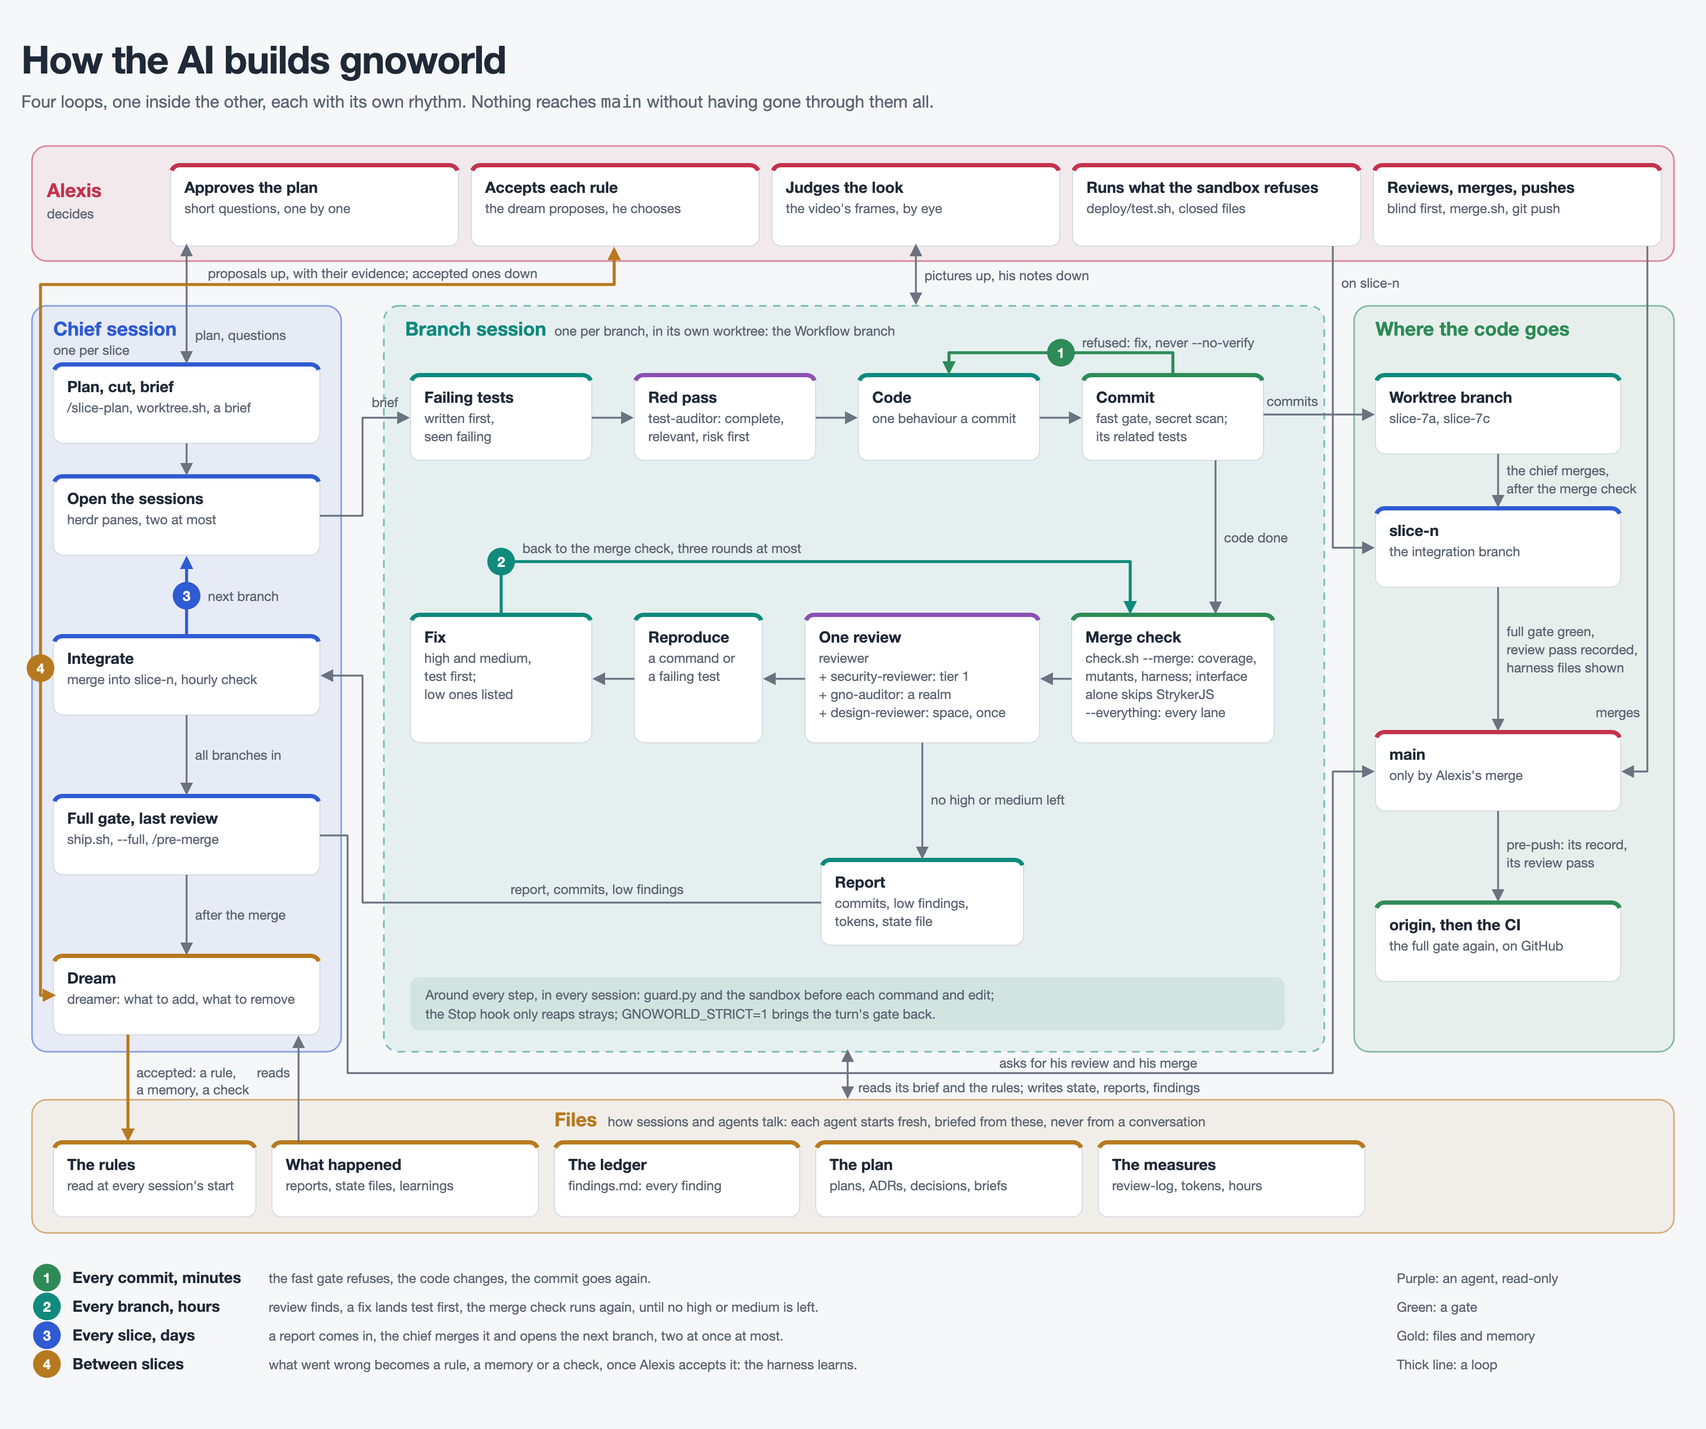
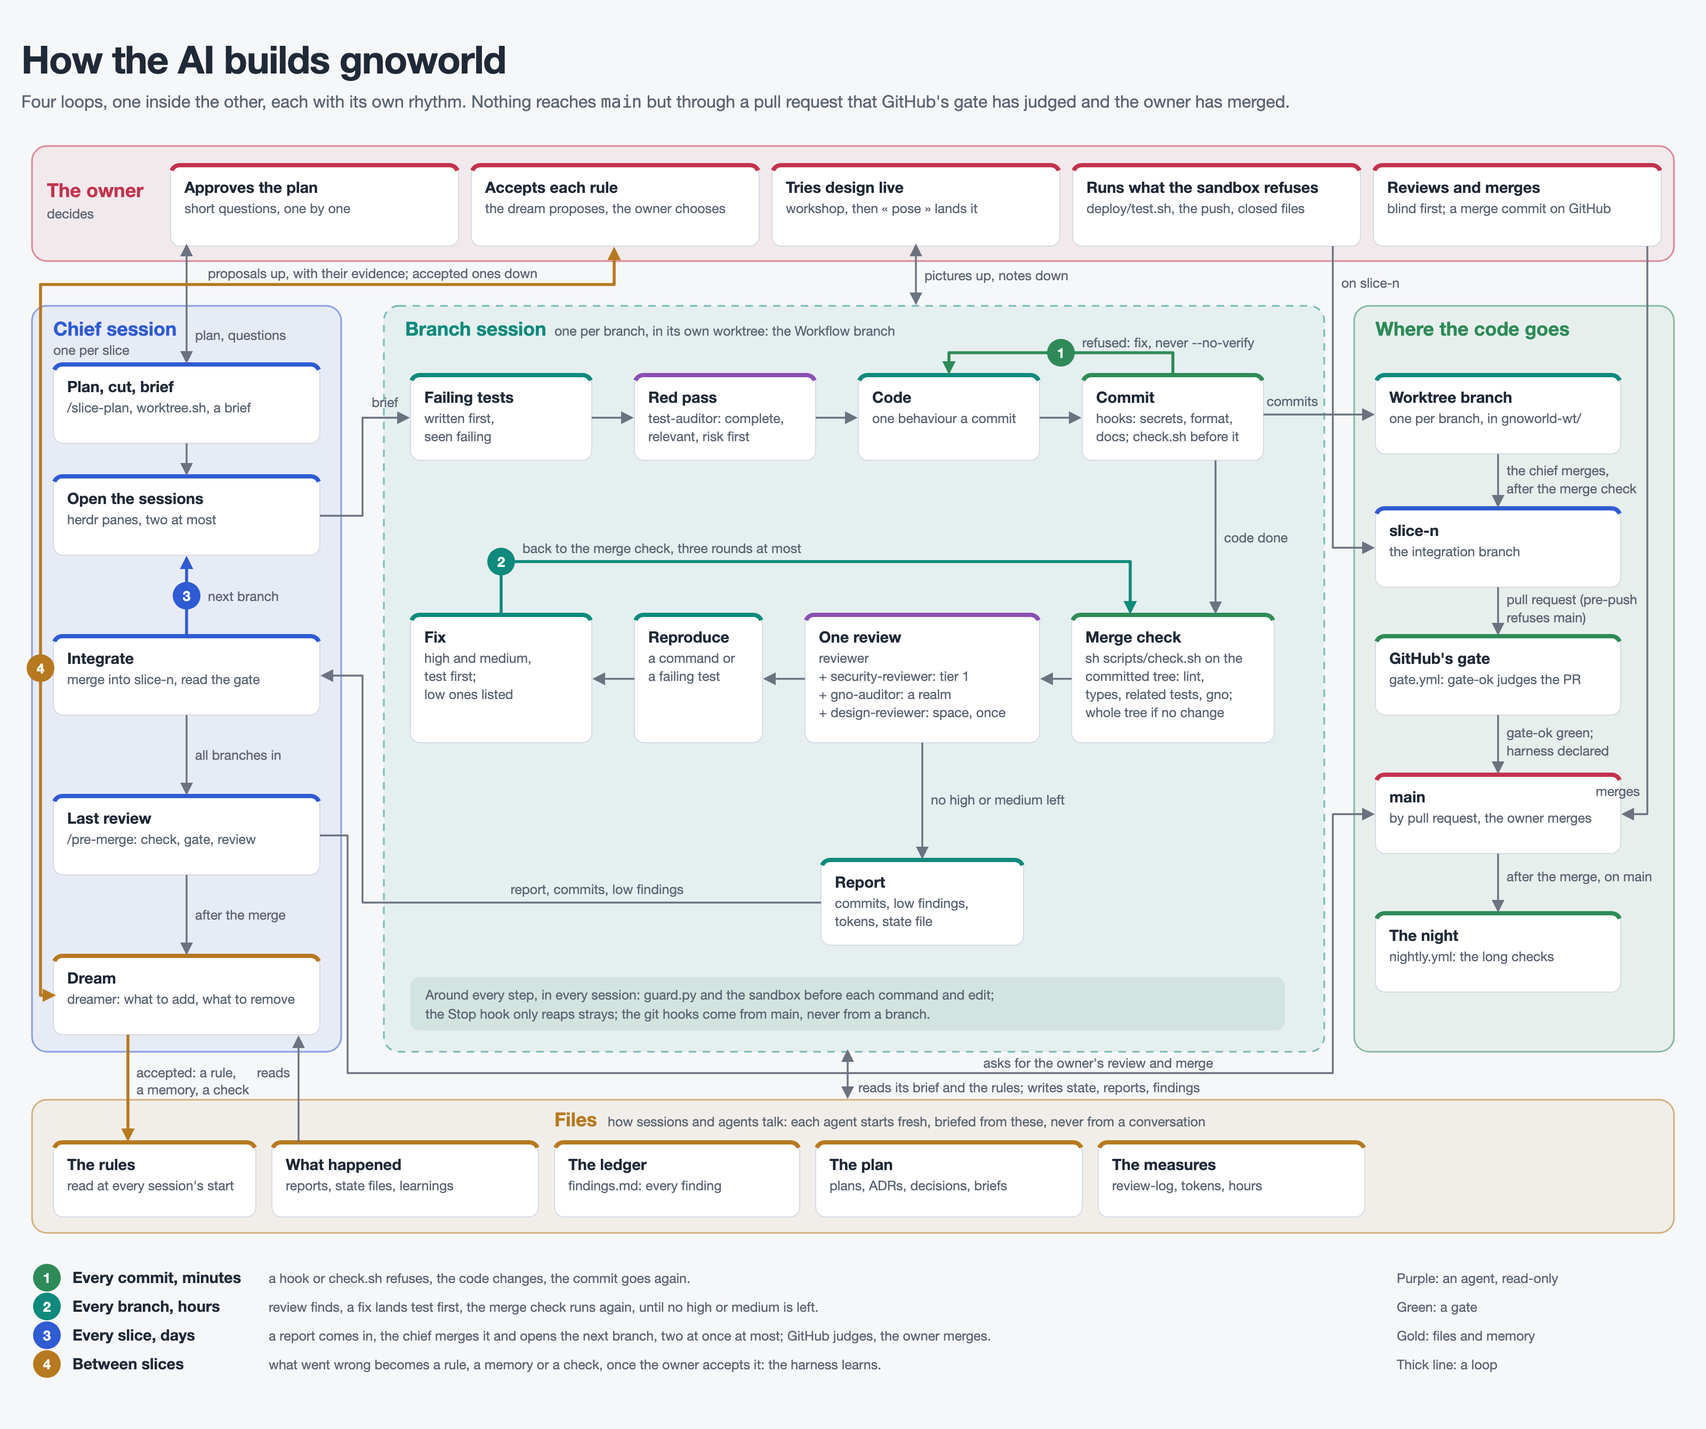
docs(harness): the picture of the harness as it is
harness.html describes the sessions, the gates and the agents as they are
now, and harness.png is rendered from it with HARNESS.md's command.

diff --git a/docs/harness.html b/docs/harness.html
@@ -11,10 +11,10 @@ svg { display: block; width: 100%; height: auto; }
 .b { font-size: 13px; font-weight: 700; }
 </style></head><body><main>
 <h1>How the AI builds gnoworld</h1>
-<p>Four loops, one inside the other, each with its own rhythm. Nothing reaches <code>main</code> without having gone through them all.</p>
-<figure style="margin:0"><svg viewBox="0 0 1560 1190" role="img" aria-label="Four nested loops: every commit through the fast gate, every branch through review and fixes, every slice through the chief's integration, and between slices through the dream back into the rules."><defs><marker id="line" viewBox="0 0 10 10" refX="8" refY="5" markerWidth="7" markerHeight="7" orient="auto-start-reverse"><path d="M0 0 L10 5 L0 10 z" fill="#6b7280"/></marker><marker id="green" viewBox="0 0 10 10" refX="8" refY="5" markerWidth="4.5" markerHeight="4.5" orient="auto-start-reverse"><path d="M0 0 L10 5 L0 10 z" fill="#2e8b57"/></marker><marker id="teal" viewBox="0 0 10 10" refX="8" refY="5" markerWidth="4.5" markerHeight="4.5" orient="auto-start-reverse"><path d="M0 0 L10 5 L0 10 z" fill="#0f8a7c"/></marker><marker id="blue" viewBox="0 0 10 10" refX="8" refY="5" markerWidth="4.5" markerHeight="4.5" orient="auto-start-reverse"><path d="M0 0 L10 5 L0 10 z" fill="#2f5bd3"/></marker><marker id="gold" viewBox="0 0 10 10" refX="8" refY="5" markerWidth="4.5" markerHeight="4.5" orient="auto-start-reverse"><path d="M0 0 L10 5 L0 10 z" fill="#b7791f"/></marker></defs>
+<p>Four loops, one inside the other, each with its own rhythm. Nothing reaches <code>main</code> but through a pull request that GitHub's gate has judged and the owner has merged.</p>
+<figure style="margin:0"><svg viewBox="0 0 1560 1190" role="img" aria-label="Four nested loops: every commit through the hooks and the commit gate, every branch through review and fixes, every slice through the chief's integration, and between slices through the dream back into the rules."><defs><marker id="line" viewBox="0 0 10 10" refX="8" refY="5" markerWidth="7" markerHeight="7" orient="auto-start-reverse"><path d="M0 0 L10 5 L0 10 z" fill="#6b7280"/></marker><marker id="green" viewBox="0 0 10 10" refX="8" refY="5" markerWidth="4.5" markerHeight="4.5" orient="auto-start-reverse"><path d="M0 0 L10 5 L0 10 z" fill="#2e8b57"/></marker><marker id="teal" viewBox="0 0 10 10" refX="8" refY="5" markerWidth="4.5" markerHeight="4.5" orient="auto-start-reverse"><path d="M0 0 L10 5 L0 10 z" fill="#0f8a7c"/></marker><marker id="blue" viewBox="0 0 10 10" refX="8" refY="5" markerWidth="4.5" markerHeight="4.5" orient="auto-start-reverse"><path d="M0 0 L10 5 L0 10 z" fill="#2f5bd3"/></marker><marker id="gold" viewBox="0 0 10 10" refX="8" refY="5" markerWidth="4.5" markerHeight="4.5" orient="auto-start-reverse"><path d="M0 0 L10 5 L0 10 z" fill="#b7791f"/></marker></defs>
 <rect x="10" y="10" width="1540" height="108" rx="14" fill="#c2334d" fill-opacity="0.07" stroke="#c2334d" stroke-opacity="0.55" stroke-width="1.5"/>
-<text x="24" y="58" class="h" text-anchor="start" fill="#c2334d">Alexis</text>
+<text x="24" y="58" class="h" text-anchor="start" fill="#c2334d">The owner</text>
 <text x="24" y="78" class="s" text-anchor="start" fill="#c2334d">decides</text>
 <rect x="140" y="28" width="270" height="76" rx="9" fill="#fff" stroke="#d6dbe3"/>
 <path d="M141 33 a8 8 0 0 1 8 -5 h252 a8 8 0 0 1 8 5" fill="none" stroke="#c2334d" stroke-width="4"/>
@@ -23,19 +23,19 @@ svg { display: block; width: 100%; height: auto; }
 <rect x="422" y="28" width="270" height="76" rx="9" fill="#fff" stroke="#d6dbe3"/>
 <path d="M423 33 a8 8 0 0 1 8 -5 h252 a8 8 0 0 1 8 5" fill="none" stroke="#c2334d" stroke-width="4"/>
 <text x="435" y="54" class="t" text-anchor="start">Accepts each rule</text>
-<text x="435" y="73" class="s" text-anchor="start">the dream proposes, he chooses</text>
+<text x="435" y="73" class="s" text-anchor="start">the dream proposes, the owner chooses</text>
 <rect x="704" y="28" width="270" height="76" rx="9" fill="#fff" stroke="#d6dbe3"/>
 <path d="M705 33 a8 8 0 0 1 8 -5 h252 a8 8 0 0 1 8 5" fill="none" stroke="#c2334d" stroke-width="4"/>
-<text x="717" y="54" class="t" text-anchor="start">Judges the look</text>
-<text x="717" y="73" class="s" text-anchor="start">the video's frames, by eye</text>
+<text x="717" y="54" class="t" text-anchor="start">Tries design live</text>
+<text x="717" y="73" class="s" text-anchor="start">workshop, then « pose » lands it</text>
 <rect x="986" y="28" width="270" height="76" rx="9" fill="#fff" stroke="#d6dbe3"/>
 <path d="M987 33 a8 8 0 0 1 8 -5 h252 a8 8 0 0 1 8 5" fill="none" stroke="#c2334d" stroke-width="4"/>
 <text x="999" y="54" class="t" text-anchor="start">Runs what the sandbox refuses</text>
-<text x="999" y="73" class="s" text-anchor="start">deploy/test.sh, closed files</text>
+<text x="999" y="73" class="s" text-anchor="start">deploy/test.sh, the push, closed files</text>
 <rect x="1268" y="28" width="270" height="76" rx="9" fill="#fff" stroke="#d6dbe3"/>
 <path d="M1269 33 a8 8 0 0 1 8 -5 h252 a8 8 0 0 1 8 5" fill="none" stroke="#c2334d" stroke-width="4"/>
-<text x="1281" y="54" class="t" text-anchor="start">Reviews, merges, pushes</text>
-<text x="1281" y="73" class="s" text-anchor="start">blind first, merge.sh, git push</text>
+<text x="1281" y="54" class="t" text-anchor="start">Reviews and merges</text>
+<text x="1281" y="73" class="s" text-anchor="start">blind first; a merge commit on GitHub</text>
 <rect x="10" y="160" width="290" height="700" rx="14" fill="#2f5bd3" fill-opacity="0.07" stroke="#2f5bd3" stroke-opacity="0.55" stroke-width="1.5"/>
 <text x="30" y="188" class="h" text-anchor="start" fill="#2f5bd3">Chief session</text>
 <text x="30" y="206" class="s" text-anchor="start" fill="#2f5bd3">one per slice</text>
@@ -50,11 +50,11 @@ svg { display: block; width: 100%; height: auto; }
 <rect x="30" y="470" width="250" height="74" rx="9" fill="#fff" stroke="#d6dbe3"/>
 <path d="M31 475 a8 8 0 0 1 8 -5 h232 a8 8 0 0 1 8 5" fill="none" stroke="#2f5bd3" stroke-width="4"/>
 <text x="43" y="496" class="t" text-anchor="start">Integrate</text>
-<text x="43" y="515" class="s" text-anchor="start">merge into slice-n, hourly check</text>
+<text x="43" y="515" class="s" text-anchor="start">merge into slice-n, read the gate</text>
 <rect x="30" y="620" width="250" height="74" rx="9" fill="#fff" stroke="#d6dbe3"/>
 <path d="M31 625 a8 8 0 0 1 8 -5 h232 a8 8 0 0 1 8 5" fill="none" stroke="#2f5bd3" stroke-width="4"/>
-<text x="43" y="646" class="t" text-anchor="start">Full gate, last review</text>
-<text x="43" y="665" class="s" text-anchor="start">ship.sh, --full, /pre-merge</text>
+<text x="43" y="646" class="t" text-anchor="start">Last review</text>
+<text x="43" y="665" class="s" text-anchor="start">/pre-merge: check, gate, review</text>
 <rect x="30" y="770" width="250" height="74" rx="9" fill="#fff" stroke="#d6dbe3"/>
 <path d="M31 775 a8 8 0 0 1 8 -5 h232 a8 8 0 0 1 8 5" fill="none" stroke="#b7791f" stroke-width="4"/>
 <text x="43" y="796" class="t" text-anchor="start">Dream</text>
@@ -79,15 +79,15 @@ svg { display: block; width: 100%; height: auto; }
 <rect x="995" y="225" width="170" height="80" rx="9" fill="#fff" stroke="#d6dbe3"/>
 <path d="M996 230 a8 8 0 0 1 8 -5 h152 a8 8 0 0 1 8 5" fill="none" stroke="#2e8b57" stroke-width="4"/>
 <text x="1008" y="251" class="t" text-anchor="start">Commit</text>
-<text x="1008" y="270" class="s" text-anchor="start">fast gate, secret scan;</text>
-<text x="1008" y="287" class="s" text-anchor="start">its related tests</text>
+<text x="1008" y="270" class="s" text-anchor="start">hooks: secrets, format,</text>
+<text x="1008" y="287" class="s" text-anchor="start">docs; check.sh before it</text>
 <rect x="985" y="450" width="190" height="120" rx="9" fill="#fff" stroke="#d6dbe3"/>
 <path d="M986 455 a8 8 0 0 1 8 -5 h172 a8 8 0 0 1 8 5" fill="none" stroke="#2e8b57" stroke-width="4"/>
 <text x="998" y="476" class="t" text-anchor="start">Merge check</text>
-<text x="998" y="495" class="s" text-anchor="start">check.sh --merge: coverage,</text>
-<text x="998" y="512" class="s" text-anchor="start">mutants, harness; interface</text>
-<text x="998" y="529" class="s" text-anchor="start">alone skips StrykerJS</text>
-<text x="998" y="546" class="s" text-anchor="start">--everything: every lane</text>
+<text x="998" y="495" class="s" text-anchor="start">sh scripts/check.sh on the</text>
+<text x="998" y="512" class="s" text-anchor="start">committed tree: lint,</text>
+<text x="998" y="529" class="s" text-anchor="start">types, related tests, gno;</text>
+<text x="998" y="546" class="s" text-anchor="start">whole tree if no change</text>
 <rect x="735" y="450" width="220" height="120" rx="9" fill="#fff" stroke="#d6dbe3"/>
 <path d="M736 455 a8 8 0 0 1 8 -5 h202 a8 8 0 0 1 8 5" fill="none" stroke="#8a4fb3" stroke-width="4"/>
 <text x="748" y="476" class="t" text-anchor="start">One review</text>
@@ -113,25 +113,29 @@ svg { display: block; width: 100%; height: auto; }
 <text x="763" y="742" class="s" text-anchor="start">tokens, state file</text>
 <rect x="365" y="790" width="820" height="50" rx="8" fill="#2e8b57" fill-opacity="0.1"/>
 <text x="379" y="811" class="s" text-anchor="start" fill="#2e8b57">Around every step, in every session: guard.py and the sandbox before each command and edit;</text>
-<text x="379" y="829" class="s" text-anchor="start" fill="#2e8b57">the Stop hook only reaps strays; GNOWORLD_STRICT=1 brings the turn's gate back.</text>
+<text x="379" y="829" class="s" text-anchor="start" fill="#2e8b57">the Stop hook only reaps strays; the git hooks come from main, never from a branch.</text>
 <rect x="1250" y="160" width="300" height="700" rx="14" fill="#2e8b57" fill-opacity="0.07" stroke="#2e8b57" stroke-opacity="0.55" stroke-width="1.5"/>
 <text x="1270" y="188" class="h" text-anchor="start" fill="#2e8b57">Where the code goes</text>
 <rect x="1270" y="225" width="230" height="74" rx="9" fill="#fff" stroke="#d6dbe3"/>
 <path d="M1271 230 a8 8 0 0 1 8 -5 h212 a8 8 0 0 1 8 5" fill="none" stroke="#0f8a7c" stroke-width="4"/>
 <text x="1283" y="251" class="t" text-anchor="start">Worktree branch</text>
-<text x="1283" y="270" class="s" text-anchor="start">slice-7a, slice-7c</text>
+<text x="1283" y="270" class="s" text-anchor="start">one per branch, in gnoworld-wt/</text>
 <rect x="1270" y="350" width="230" height="74" rx="9" fill="#fff" stroke="#d6dbe3"/>
 <path d="M1271 355 a8 8 0 0 1 8 -5 h212 a8 8 0 0 1 8 5" fill="none" stroke="#2f5bd3" stroke-width="4"/>
 <text x="1283" y="376" class="t" text-anchor="start">slice-n</text>
 <text x="1283" y="395" class="s" text-anchor="start">the integration branch</text>
-<rect x="1270" y="560" width="230" height="74" rx="9" fill="#fff" stroke="#d6dbe3"/>
-<path d="M1271 565 a8 8 0 0 1 8 -5 h212 a8 8 0 0 1 8 5" fill="none" stroke="#c2334d" stroke-width="4"/>
-<text x="1283" y="586" class="t" text-anchor="start">main</text>
-<text x="1283" y="605" class="s" text-anchor="start">only by Alexis's merge</text>
-<rect x="1270" y="720" width="230" height="74" rx="9" fill="#fff" stroke="#d6dbe3"/>
-<path d="M1271 725 a8 8 0 0 1 8 -5 h212 a8 8 0 0 1 8 5" fill="none" stroke="#2e8b57" stroke-width="4"/>
-<text x="1283" y="746" class="t" text-anchor="start">origin, then the CI</text>
-<text x="1283" y="765" class="s" text-anchor="start">the full gate again, on GitHub</text>
+<rect x="1270" y="470" width="230" height="74" rx="9" fill="#fff" stroke="#d6dbe3"/>
+<path d="M1271 475 a8 8 0 0 1 8 -5 h212 a8 8 0 0 1 8 5" fill="none" stroke="#2e8b57" stroke-width="4"/>
+<text x="1283" y="496" class="t" text-anchor="start">GitHub's gate</text>
+<text x="1283" y="515" class="s" text-anchor="start">gate.yml: gate-ok judges the PR</text>
+<rect x="1270" y="600" width="230" height="74" rx="9" fill="#fff" stroke="#d6dbe3"/>
+<path d="M1271 605 a8 8 0 0 1 8 -5 h212 a8 8 0 0 1 8 5" fill="none" stroke="#c2334d" stroke-width="4"/>
+<text x="1283" y="626" class="t" text-anchor="start">main</text>
+<text x="1283" y="645" class="s" text-anchor="start">by pull request, the owner merges</text>
+<rect x="1270" y="730" width="230" height="74" rx="9" fill="#fff" stroke="#d6dbe3"/>
+<path d="M1271 735 a8 8 0 0 1 8 -5 h212 a8 8 0 0 1 8 5" fill="none" stroke="#2e8b57" stroke-width="4"/>
+<text x="1283" y="756" class="t" text-anchor="start">The night</text>
+<text x="1283" y="775" class="s" text-anchor="start">nightly.yml: the long checks</text>
 <rect x="10" y="905" width="1540" height="125" rx="14" fill="#b7791f" fill-opacity="0.07" stroke="#b7791f" stroke-opacity="0.55" stroke-width="1.5"/>
 <text x="500" y="930" class="h" text-anchor="start" fill="#b7791f">Files</text>
 <text x="550" y="930" class="s" text-anchor="start" fill="#b7791f">how sessions and agents talk: each agent starts fresh, briefed from these, never from a conversation</text>
@@ -179,23 +183,24 @@ svg { display: block; width: 100%; height: auto; }
 <path d="M1165 262 H1267" fill="none" stroke="#6b7280" stroke-width="1.7" marker-end="url(#line)" stroke-linejoin="round"/>
 <text x="1168" y="254" class="s" text-anchor="start">commits</text>
 <path d="M839 104 V157" fill="none" stroke="#6b7280" stroke-width="1.7" marker-end="url(#line)" marker-start="url(#line)" stroke-linejoin="round"/>
-<text x="847" y="136" class="s" text-anchor="start">pictures up, his notes down</text>
+<text x="847" y="136" class="s" text-anchor="start">pictures up, notes down</text>
 <path d="M1230 104 V387 H1267" fill="none" stroke="#6b7280" stroke-width="1.7" marker-end="url(#line)" stroke-linejoin="round"/>
 <text x="1238" y="143" class="s" text-anchor="start">on slice-n</text>
 <path d="M1385 299 V347" fill="none" stroke="#6b7280" stroke-width="1.7" marker-end="url(#line)" stroke-linejoin="round"/>
 <text x="1393" y="319" class="s" text-anchor="start">the chief merges,</text>
 <text x="1393" y="336" class="s" text-anchor="start">after the merge check</text>
-<path d="M1385 424 V557" fill="none" stroke="#6b7280" stroke-width="1.7" marker-end="url(#line)" stroke-linejoin="round"/>
-<text x="1393" y="470" class="s" text-anchor="start">full gate green,</text>
-<text x="1393" y="487" class="s" text-anchor="start">review pass recorded,</text>
-<text x="1393" y="504" class="s" text-anchor="start">harness files shown</text>
-<path d="M1385 634 V717" fill="none" stroke="#6b7280" stroke-width="1.7" marker-end="url(#line)" stroke-linejoin="round"/>
-<text x="1393" y="670" class="s" text-anchor="start">pre-push: its record,</text>
-<text x="1393" y="687" class="s" text-anchor="start">its review pass</text>
-<path d="M1525 104 V597 H1503" fill="none" stroke="#6b7280" stroke-width="1.7" marker-end="url(#line)" stroke-linejoin="round"/>
-<text x="1518" y="546" class="s" text-anchor="end">merges</text>
-<path d="M280 657 H306 V880 H1230 V597 H1267" fill="none" stroke="#6b7280" stroke-width="1.7" marker-end="url(#line)" stroke-linejoin="round"/>
-<text x="1010" y="875" class="s" text-anchor="middle">asks for his review and his merge</text>
+<path d="M1385 424 V467" fill="none" stroke="#6b7280" stroke-width="1.7" marker-end="url(#line)" stroke-linejoin="round"/>
+<text x="1393" y="440" class="s" text-anchor="start">pull request (pre-push</text>
+<text x="1393" y="457" class="s" text-anchor="start">refuses main)</text>
+<path d="M1385 544 V597" fill="none" stroke="#6b7280" stroke-width="1.7" marker-end="url(#line)" stroke-linejoin="round"/>
+<text x="1393" y="565" class="s" text-anchor="start">gate-ok green;</text>
+<text x="1393" y="582" class="s" text-anchor="start">harness declared</text>
+<path d="M1385 674 V727" fill="none" stroke="#6b7280" stroke-width="1.7" marker-end="url(#line)" stroke-linejoin="round"/>
+<text x="1393" y="700" class="s" text-anchor="start">after the merge, on main</text>
+<path d="M1525 104 V637 H1503" fill="none" stroke="#6b7280" stroke-width="1.7" marker-end="url(#line)" stroke-linejoin="round"/>
+<text x="1518" y="620" class="s" text-anchor="end">merges</text>
+<path d="M280 657 H306 V880 H1230 V637 H1267" fill="none" stroke="#6b7280" stroke-width="1.7" marker-end="url(#line)" stroke-linejoin="round"/>
+<text x="1010" y="875" class="s" text-anchor="middle">asks for the owner's review and merge</text>
 <path d="M775 860 V902" fill="none" stroke="#6b7280" stroke-width="1.7" marker-end="url(#line)" marker-start="url(#line)" stroke-linejoin="round"/>
 <text x="785" y="898" class="s" text-anchor="start">reads its brief and the rules; writes state, reports, findings</text>
 <path d="M260 945 V847" fill="none" stroke="#6b7280" stroke-width="1.7" marker-end="url(#line)" stroke-linejoin="round"/>
@@ -222,7 +227,7 @@ svg { display: block; width: 100%; height: auto; }
 <circle cx="24" cy="1072" r="13" fill="#2e8b57"/>
 <text x="24" y="1077" class="b" text-anchor="middle" fill="#fff">1</text>
 <text x="48" y="1077" class="t" text-anchor="start">Every commit, minutes</text>
-<text x="232" y="1077" class="s" text-anchor="start">the fast gate refuses, the code changes, the commit goes again.</text>
+<text x="232" y="1077" class="s" text-anchor="start">a hook or check.sh refuses, the code changes, the commit goes again.</text>
 <circle cx="24" cy="1099" r="13" fill="#0f8a7c"/>
 <text x="24" y="1104" class="b" text-anchor="middle" fill="#fff">2</text>
 <text x="48" y="1104" class="t" text-anchor="start">Every branch, hours</text>
@@ -230,14 +235,14 @@ svg { display: block; width: 100%; height: auto; }
 <circle cx="24" cy="1126" r="13" fill="#2f5bd3"/>
 <text x="24" y="1131" class="b" text-anchor="middle" fill="#fff">3</text>
 <text x="48" y="1131" class="t" text-anchor="start">Every slice, days</text>
-<text x="232" y="1131" class="s" text-anchor="start">a report comes in, the chief merges it and opens the next branch, two at once at most.</text>
+<text x="232" y="1131" class="s" text-anchor="start">a report comes in, the chief merges it and opens the next branch, two at once at most; GitHub judges, the owner merges.</text>
 <circle cx="24" cy="1153" r="13" fill="#b7791f"/>
 <text x="24" y="1158" class="b" text-anchor="middle" fill="#fff">4</text>
 <text x="48" y="1158" class="t" text-anchor="start">Between slices</text>
-<text x="232" y="1158" class="s" text-anchor="start">what went wrong becomes a rule, a memory or a check, once Alexis accepts it: the harness learns.</text>
+<text x="232" y="1158" class="s" text-anchor="start">what went wrong becomes a rule, a memory or a check, once the owner accepts it: the harness learns.</text>
 <text x="1290" y="1077" class="s" text-anchor="start" fill="#8a4fb3">Purple: an agent, read-only</text>
 <text x="1290" y="1104" class="s" text-anchor="start" fill="#2e8b57">Green: a gate</text>
 <text x="1290" y="1131" class="s" text-anchor="start" fill="#b7791f">Gold: files and memory</text>
 <text x="1290" y="1158" class="s" text-anchor="start" fill="#1f2937">Thick line: a loop</text>
-</svg><figcaption style="position:absolute;left:-9999px">Four nested loops: every commit through the fast gate, every branch through review and fixes, every slice through the chief's integration, and between slices through the dream back into the rules.</figcaption></figure>
+</svg><figcaption style="position:absolute;left:-9999px">Four nested loops: every commit through the hooks and the commit gate, every branch through review and fixes, every slice through the chief's integration, and between slices through the dream back into the rules.</figcaption></figure>
 </main></body></html>
